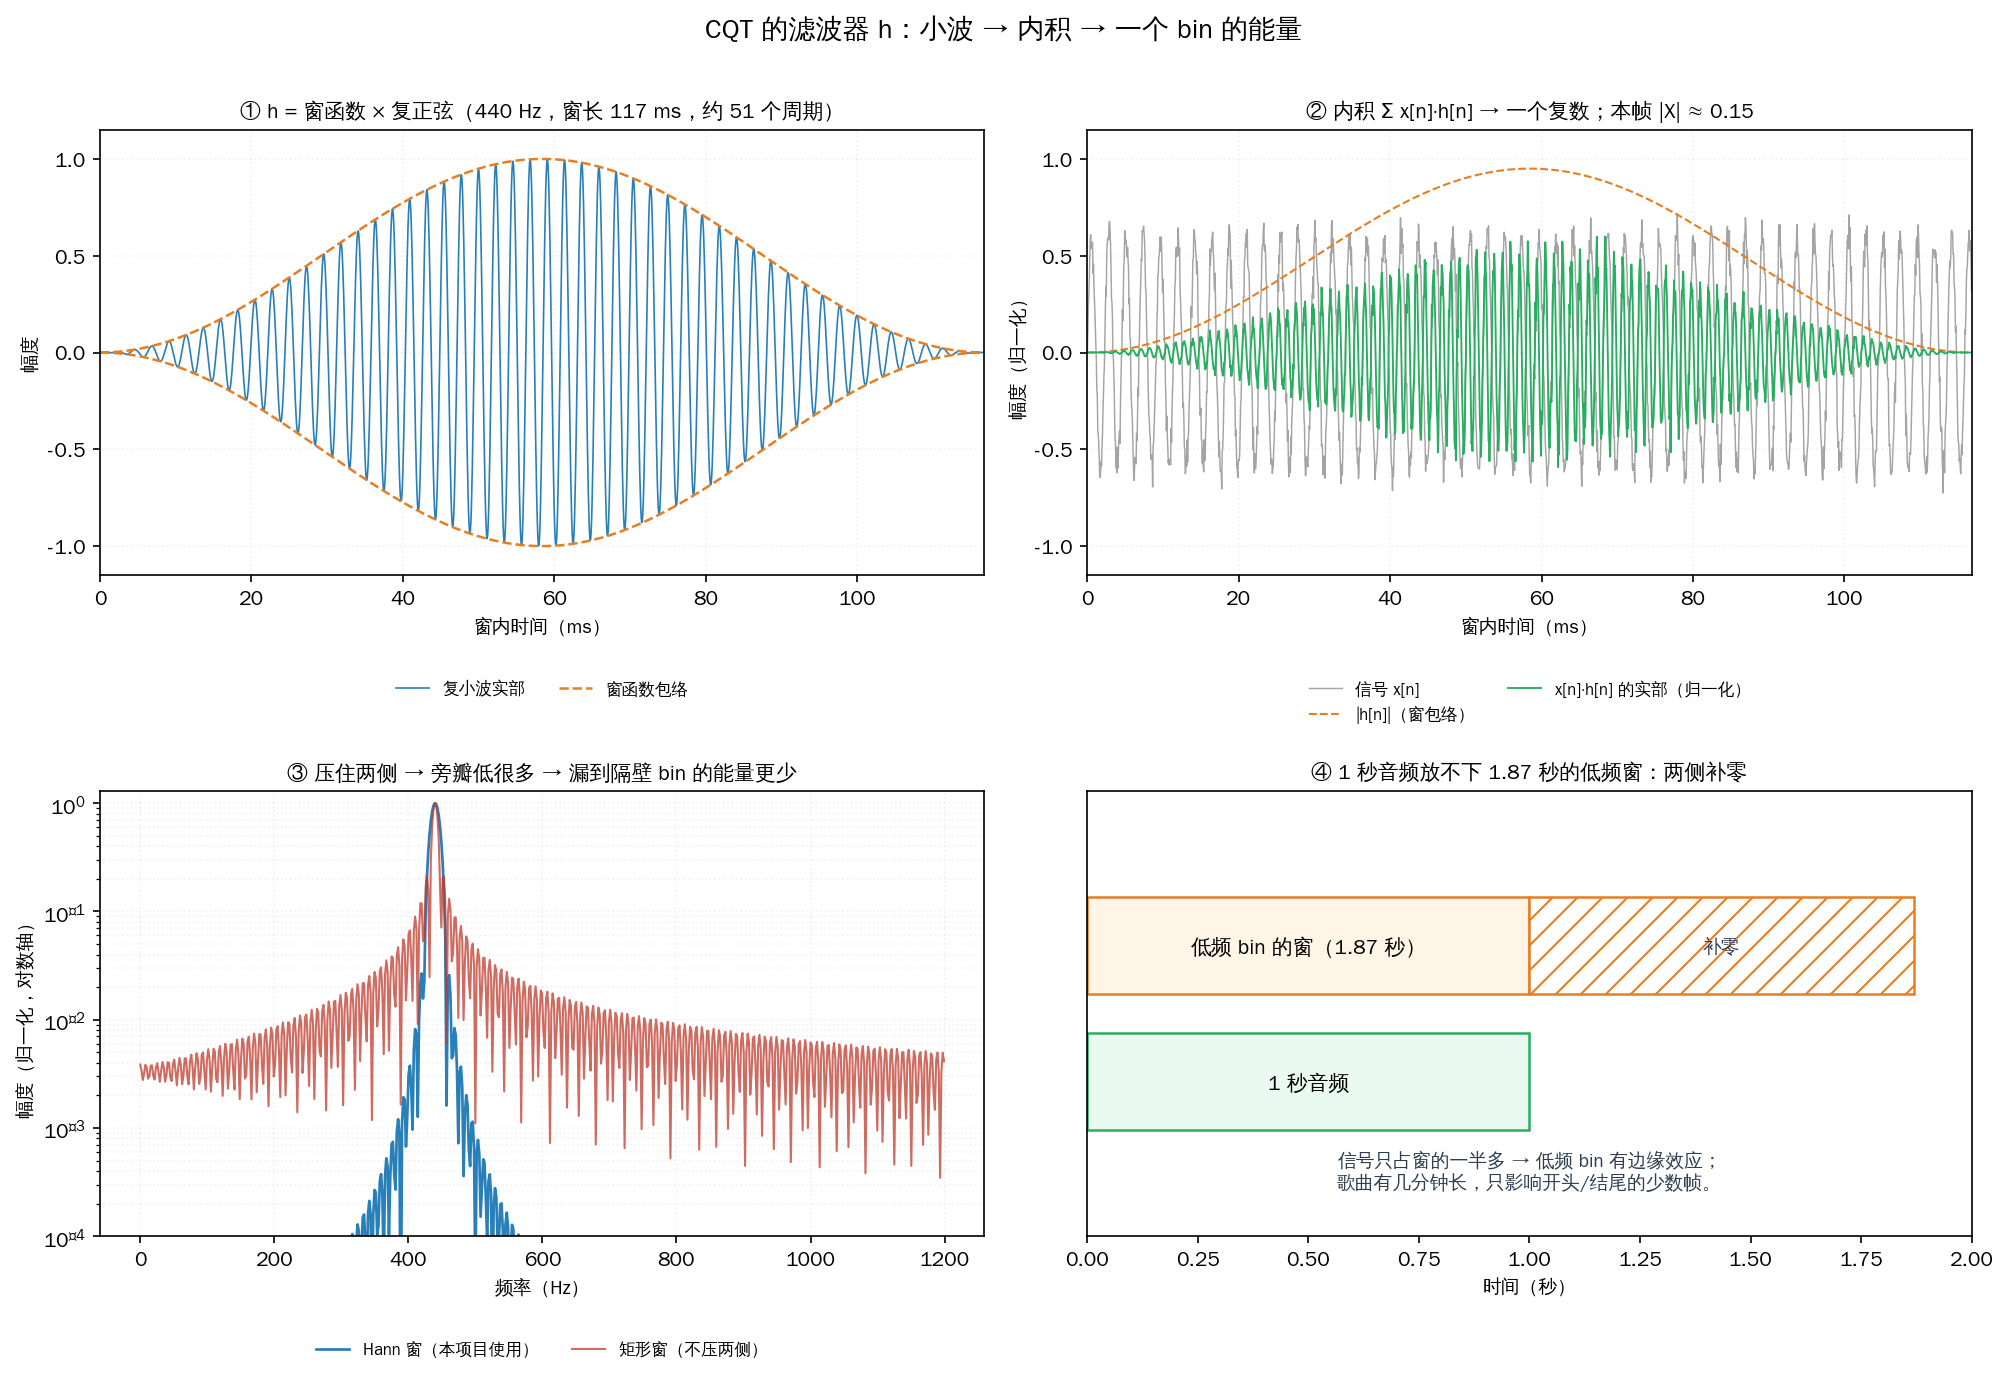
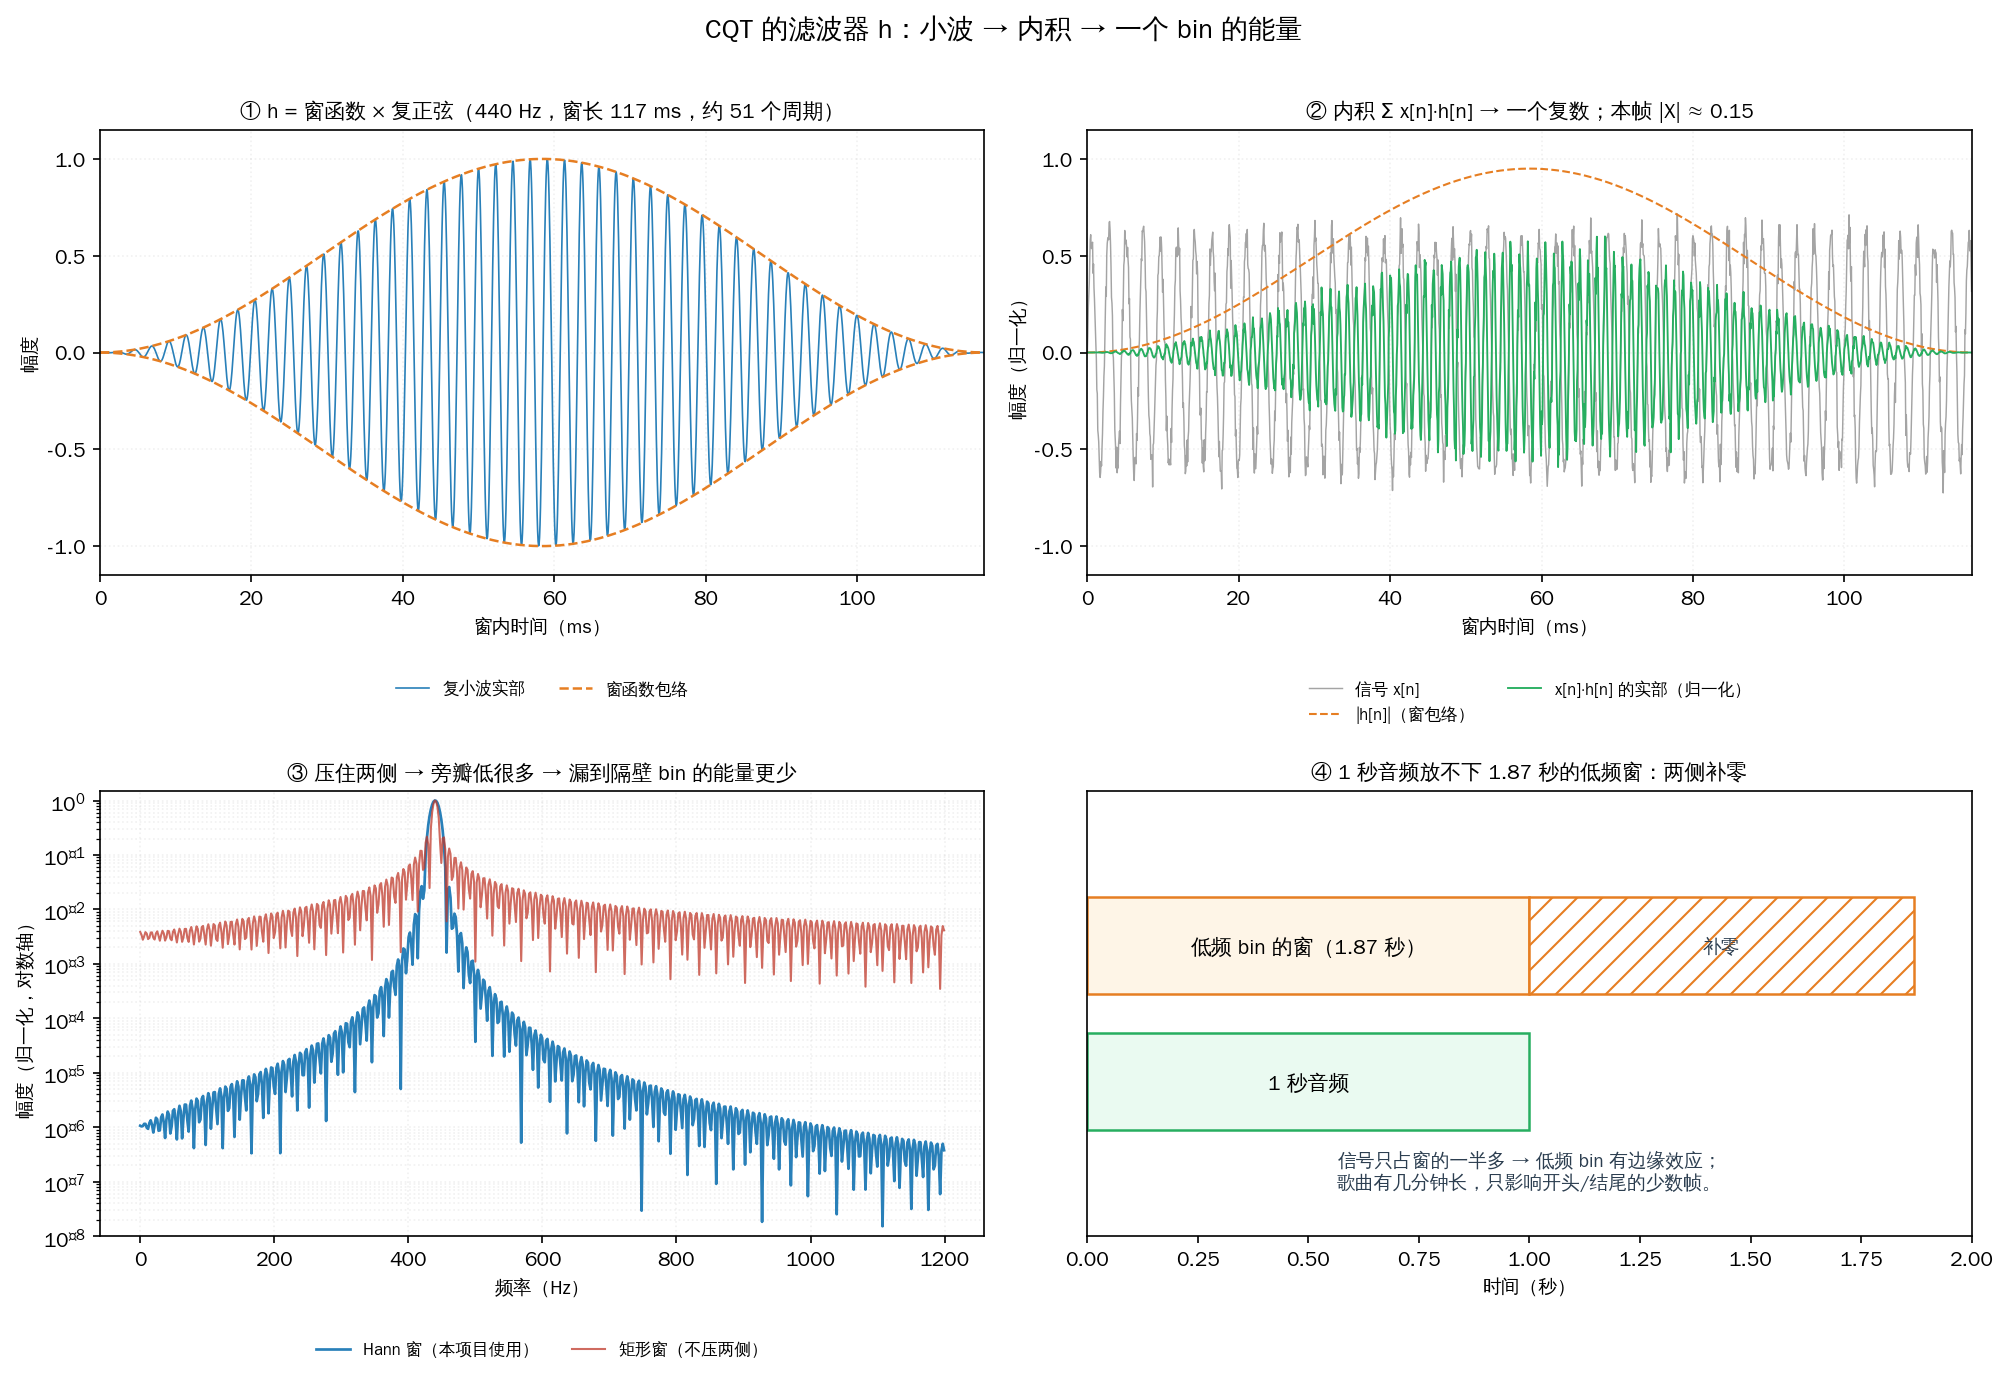
fix: 修复 CQT 教学图曲线被坐标轴裁剪，并加入画图自检
- 现象：图 22 面板②中 55 Hz 的蓝色曲线峰值 2.95 超过 ylim 2.85，峰顶被裁掉，看上去像蓝线没画出来
- 修复：面板②按三条曲线最高点重设 ylim；面板③的 x 轴扩展到 1.9 s，低频 1.87 s 的窗完整显示
- 新增 scripts/fig_utils.py：check_clipping 遍历所有曲线与矩形，逐轴检查是否超出 xlim/ylim（log 轴也处理），越界即报错退出
- 两个画图脚本在保存前调用自检：当前 22 图检查 52 个元素、23 图检查 11 个元素，均 0 越界
- 图 23 面板③的纵轴下探到 1e-8，使 Hann 窗的深零点完整可见
- 重新生成 docs/figs/22_cqt_explained.png 与 23_cqt_filter.png

co-authored by: DeepSeek Harness 0.2.2-rc.1 (deepseek-flash / DeepSeek-V41-Flash)

Changed region(s): [[0.0309, 0.5925, 0.494, 0.9043]]

diff --git a/scripts/plot_cqt_explainer.py b/scripts/plot_cqt_explainer.py
@@ -59,34 +59,37 @@ def panel_wavelets(ax):
         win = Q / freq                            # 窗长（秒）
         u = (t - 0.5) / win
         env = np.where(np.abs(u) <= 0.5, 0.5 * (1 + np.cos(2 * np.pi * u)), 0.0)
-        y = 2.2 - i * 0.95
-        ax.plot(t, env * 0.7 + y, color=color, linewidth=1.6,
+        y = 2.35 - i * 0.95
+        ax.plot(t, env * 0.6 + y, color=color, linewidth=1.6,
                 label=f"{freq:.0f} Hz：窗长 {win * 1000:.0f} ms（约 51 个周期）")
         ax.axhline(y, color="#dddddd", linewidth=0.6, zorder=0)
     ax.legend(loc="upper center", bbox_to_anchor=(0.5, -0.22), ncol=1,
               fontsize=8, frameon=False)
     ax.set_xlim(0, 1.0)
-    ax.set_ylim(-0.2, 2.85)
+    # 上限要容纳 55 Hz 的峰（2.35 + 0.6 = 2.95），否则峰顶会被裁剪
+    ax.set_ylim(-0.1, 3.1)
     ax.set_yticks([])
     ax.set_xlabel("时间（秒）", fontsize=9)
     ax.set_title("② 每个 bin 的滤波器窗长：频率越低，窗越长", fontsize=11)
 
 
 def panel_frames(ax):
-    """③ 帧移 hop：不同窗长下的相邻帧重叠。"""
-    ax.set_xlim(0, 1.0)
+    """③ 帧移 hop：不同窗长下的相邻帧重叠（所有窗都完整画在坐标内）。"""
+    ax.set_xlim(0, 1.9)
     ax.set_ylim(0, 3.1)
-    rows = [(2.35, Q / 55.0, "低频：窗 1.87 s（重叠严重）", C.COLOR_BLUE),
-            (1.35, Q / 440.0, "中频：窗 0.12 s（部分重叠）", C.COLOR_ORANGE),
-            (0.35, Q / 1760.0, "高频：窗 0.03 s（几乎不重叠）", C.COLOR_GREEN)]
-    for y, width, label, color in rows:
-        centers = np.arange(0.16, 1.0, HOP / SR)
-        for c0 in centers[:8]:
+    rows = [(2.35, Q / 55.0, "低频：窗 1.87 s（几乎完全重叠）", C.COLOR_BLUE,
+             np.array([0.95, 0.982])),
+            (1.35, Q / 440.0, "中频：窗 0.12 s（部分重叠）", C.COLOR_ORANGE,
+             np.arange(0.79, 1.14, HOP / SR)),
+            (0.35, Q / 1760.0, "高频：窗 0.03 s（几乎不重叠）", C.COLOR_GREEN,
+             np.arange(0.72, 1.21, HOP / SR))]
+    for y, width, label, color, centers in rows:
+        for c0 in centers:
             ax.add_patch(plt.Rectangle((c0 - width / 2, y - 0.16), width, 0.32,
                                        facecolor=color, alpha=0.30,
                                        edgecolor=color, linewidth=0.8))
-        ax.text(0.015, y + 0.25, label, fontsize=8.5, color=C.COLOR_DARK)
-    ax.text(0.5, 2.95, "每帧中心间隔 = hop = 512 采样 = 32 ms", ha="center",
+        ax.text(0.02, y + 0.25, label, fontsize=8.5, color=C.COLOR_DARK)
+    ax.text(0.95, 2.95, "每帧中心间隔 = hop = 512 采样 = 32 ms", ha="center",
             fontsize=9, color=C.COLOR_GRAY)
     ax.set_yticks([])
     ax.set_xlabel("时间（秒）", fontsize=9)
@@ -124,6 +127,13 @@ def main():
     fig.suptitle("CQT 解剖：bin 是等比间隔的频率；每个 bin 有自己的窗长（常数 Q）",
                  fontsize=13)
     fig.tight_layout()
+
+    from fig_utils import check_clipping
+
+    problems = check_clipping(fig)
+    if problems:
+        raise SystemExit("图形越界（会被裁掉）：\n" + "\n".join(problems))
+
     out = "/Docker/git/piano2/docs/figs/22_cqt_explained.png"
     plot_style.save(fig, out)
     plt.close(fig)

diff --git a/scripts/fig_utils.py b/scripts/fig_utils.py
@@ -1,0 +1,77 @@
+"""画图自检工具：确认所有曲线、柱都在坐标范围内（没有被坐标轴裁剪）。
+
+用法（在画图脚本末尾）：
+    from fig_utils import check_clipping
+    problems = check_clipping(fig)
+    if problems:
+        raise SystemExit("图形越界：\n" + "\n".join(problems))
+
+为什么需要：matplotlib 默认会把超出 xlim/ylim 的部分裁掉且不报错。
+我们曾因此把 55 Hz 滤波器的峰顶裁掉，图上看起来像"这根线没画出来"。
+"""
+
+from __future__ import annotations
+
+import numpy as np
+
+
+def _to_scale(values, scale):
+    """把数据值转换到比较用的坐标（log 轴取对数）。"""
+    values = np.asarray(values, dtype=float)
+    if scale == "log":
+        return np.log10(np.maximum(values, 1e-300))
+    return values
+
+
+def check_clipping(fig, verbose=True):
+    """检查图中所有坐标轴的曲线和矩形是否超出显示范围。
+
+    参数:
+        fig (matplotlib.figure.Figure): 已绘制完成的图。
+        verbose (bool): 是否打印统计信息。
+
+    返回:
+        list[str]: 越界描述；空列表表示全部在范围内。
+    """
+    problems = []
+    checked = 0
+    for index, ax in enumerate(fig.axes):
+        xscale, yscale = ax.get_xscale(), ax.get_yscale()
+        x0, x1 = ax.get_xlim()
+        y0, y1 = ax.get_ylim()
+        bx0, bx1 = _to_scale([x0, x1], xscale)
+        by0, by1 = _to_scale([y0, y1], yscale)
+
+        def report(kind, xs, ys):
+            nonlocal checked
+            checked += 1
+            xb = _to_scale(xs, xscale)
+            yb = _to_scale(ys, yscale)
+            if (np.nanmin(xb) < bx0 - 1e-9 or np.nanmax(xb) > bx1 + 1e-9
+                    or np.nanmin(yb) < by0 - 1e-9 or np.nanmax(yb) > by1 + 1e-9):
+                problems.append(
+                    f"子图 {index + 1} 的{kind}越界: "
+                    f"x∈[{np.nanmin(xb):.3g}, {np.nanmax(xb):.3g}] vs "
+                    f"[{bx0:.3g}, {bx1:.3g}], "
+                    f"y∈[{np.nanmin(yb):.3g}, {np.nanmax(yb):.3g}] vs "
+                    f"[{by0:.3g}, {by1:.3g}]"
+                )
+
+        for line in ax.get_lines():
+            xs, ys = line.get_xdata(), line.get_ydata()
+            if len(xs) == 0:
+                continue
+            report("曲线", xs, ys)
+
+        for patch in ax.patches:
+            if not hasattr(patch, "get_x"):
+                continue
+            x = patch.get_x()
+            y = patch.get_y()
+            w = patch.get_width()
+            h = patch.get_height()
+            report("矩形", [x, x + w], [y, y + h])
+
+    if verbose:
+        print(f"图形自检：检查 {checked} 个元素，越界 {len(problems)} 个")
+    return problems

diff --git a/scripts/plot_cqt_filter.py b/scripts/plot_cqt_filter.py
@@ -100,7 +100,7 @@ def panel_response(ax):
                 label="Hann 窗（本项目使用）")
     ax.semilogy(freqs[mask], spec_rect[mask], color=C.COLOR_RED, linewidth=1.0,
                 alpha=0.75, label="矩形窗（不压两侧）")
-    ax.set_ylim(1e-4, 1.3)
+    ax.set_ylim(1e-8, 1.5)
     ax.set_xlabel("频率（Hz）", fontsize=9)
     ax.set_ylabel("幅度（归一化，对数轴）", fontsize=9)
     ax.set_title("③ 压住两侧 → 旁瓣低很多 → 漏到隔壁 bin 的能量更少", fontsize=10)
@@ -140,6 +140,13 @@ def main():
     panel_short(axes[1, 1])
     fig.suptitle("CQT 的滤波器 h：小波 → 内积 → 一个 bin 的能量", fontsize=13)
     fig.tight_layout(rect=(0, 0, 1, 0.97))
+
+    from fig_utils import check_clipping
+
+    problems = check_clipping(fig)
+    if problems:
+        raise SystemExit("图形越界（会被裁掉）：\n" + "\n".join(problems))
+
     out = "/Docker/git/piano2/docs/figs/23_cqt_filter.png"
     plot_style.save(fig, out)
     plt.close(fig)
